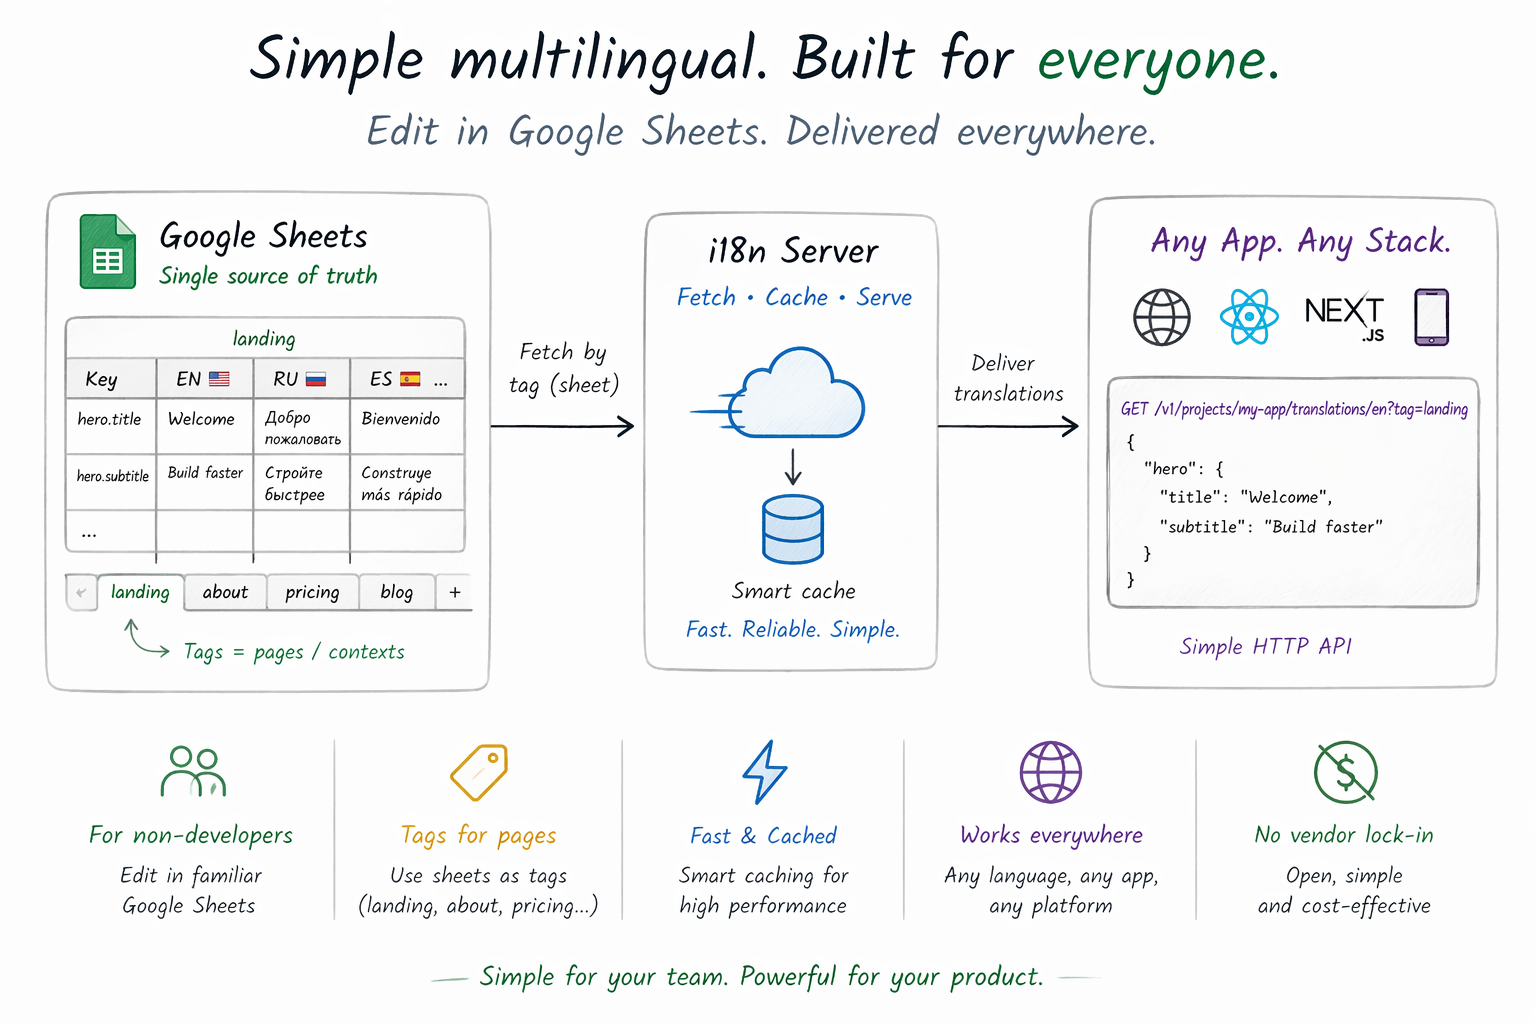
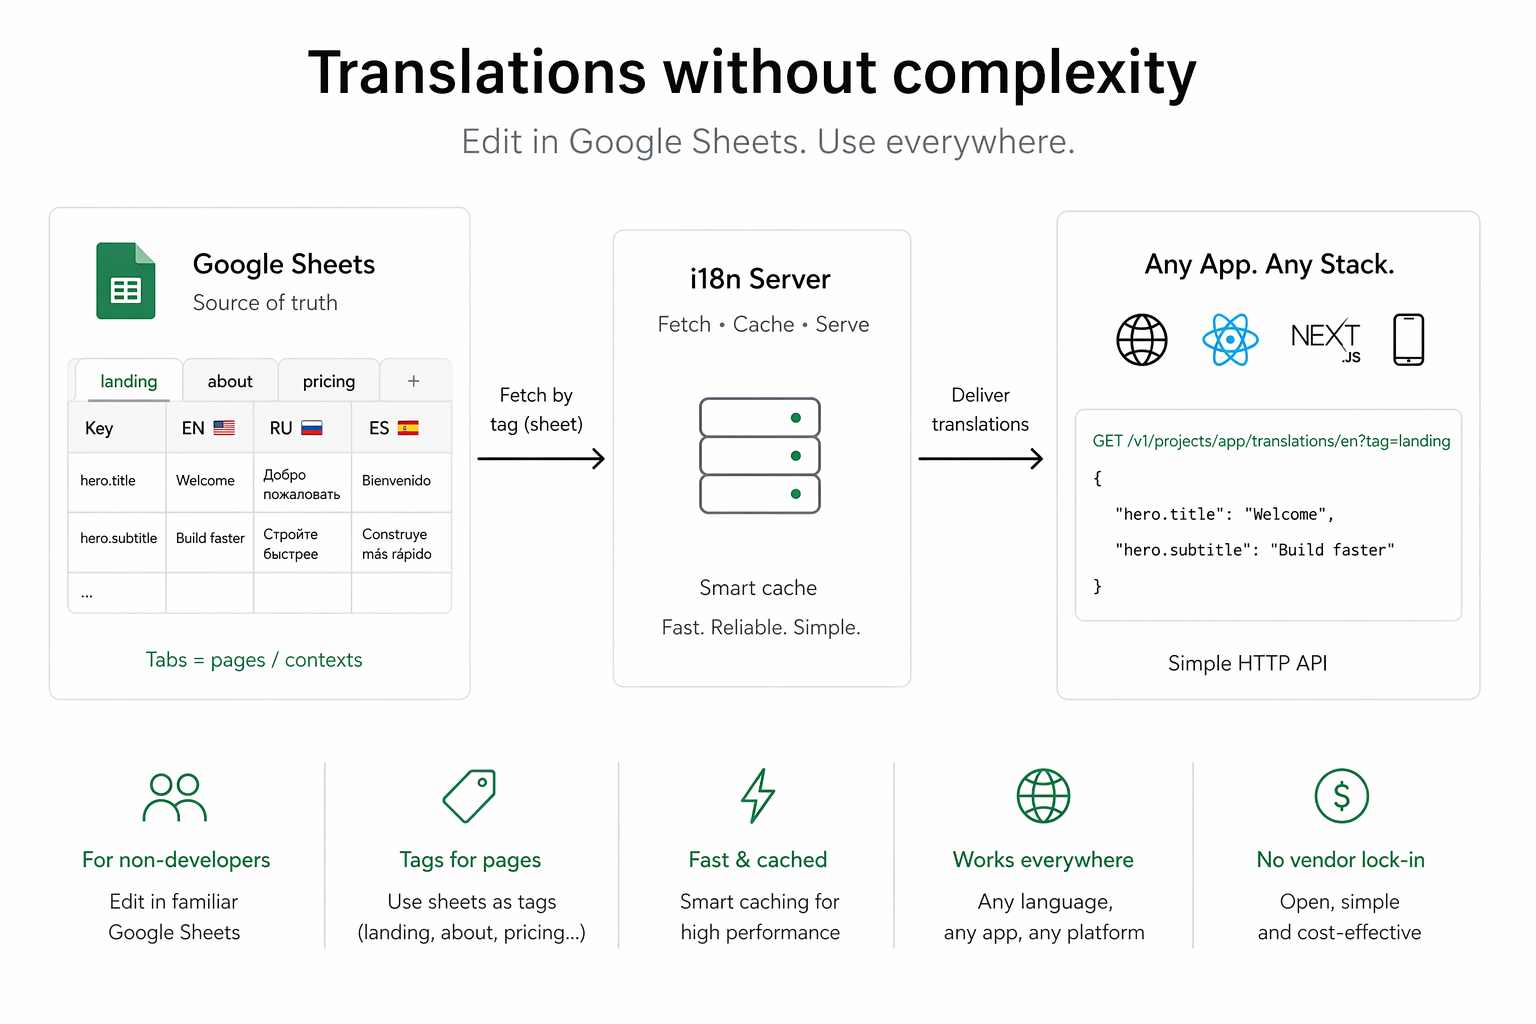
goto esm

diff --git a/README.md b/README.md
@@ -22,8 +22,65 @@ This service treats Google Sheets as the single source of truth. Non-technical t
 
 ## Architecture
 
-![Architecture](docs/arch.png)
+```mermaid
+flowchart LR
 
+  %% SOURCE
+  subgraph Sheets
+    S1[landing]
+    S2[about]
+    S3[pricing]
+    S4[key, en, ru]
+  end
+
+  %% SERVER
+  subgraph Server
+    R[API Router]
+
+    subgraph Services
+      TS[Translation Service]
+      PS[Project Service]
+    end
+
+    subgraph Infra
+      DB[tables.txt]
+      GS[Sheets Client]
+      CACHE[Cache TTL + stale]
+      METRICS[Metrics]
+    end
+  end
+
+  %% CLIENTS
+  subgraph Clients
+    FE[Web]
+    BE[Backend]
+    STATIC[Static build]
+    MOBILE[Mobile]
+  end
+
+  %% FLOW
+  FE --> R
+  BE --> R
+  STATIC --> R
+  MOBILE --> R
+
+  R --> TS
+  R --> PS
+
+  PS --> DB
+
+  TS --> CACHE
+  CACHE --> GS
+  GS --> Sheets
+  CACHE --> TS
+
+  TS --> R
+
+  R --> FE
+  R --> BE
+  R --> STATIC
+  R --> MOBILE
+```
 ## How it works
 
 1. A request arrives for `project / language`
@@ -271,14 +328,6 @@ A persistent cache (Redis et al.) adds infrastructure and consistency concerns. 
 * CLI tool to snapshot translations into static JSON
 
 ## Tests
-
-16 tests across 3 suites, all passing.
-
-| Suite | Tests | What's covered |
-|---|---|---|
-| Cache | 6 | deduplication · stale-while-revalidate · error fallback · key normalization |
-| projectService | 7 | CRUD · input validation · name format rules |
-| translationTransform | 3 | row parsing · empty value handling · flat-to-nested expansion |
 
 ```bash
 npm test          # watch mode
